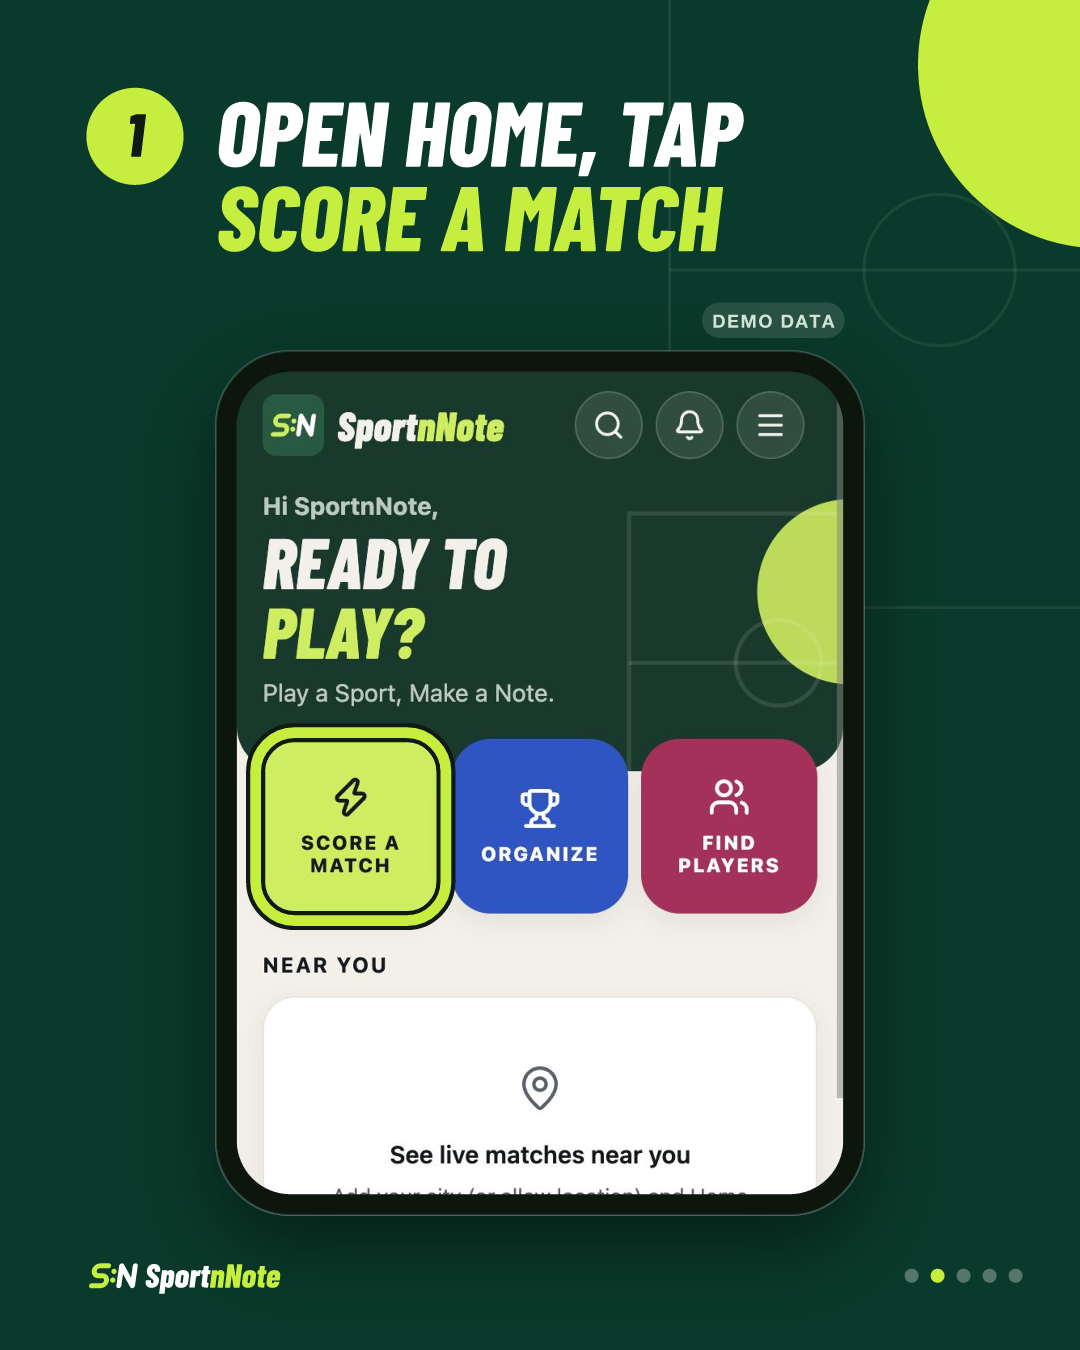
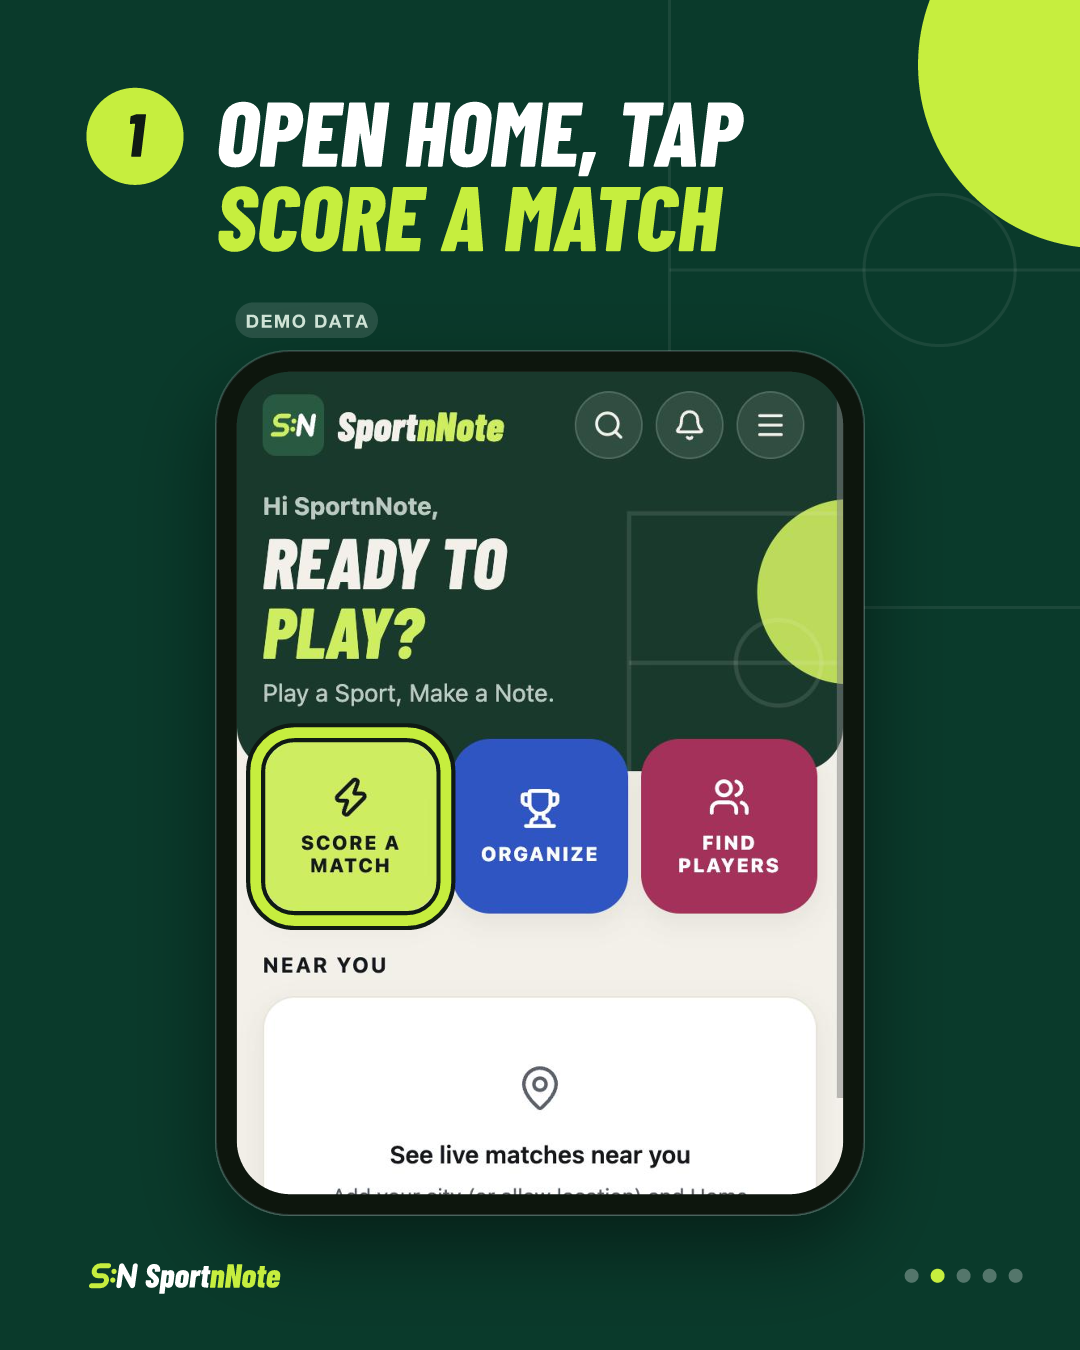
feat(marketing): post 3 image (kabaddi result + standings); demo tags top-left; two more app notes

Changed region(s): [[0.6417, 0.2178, 0.7944, 0.2489], [0.2139, 0.2178, 0.3667, 0.2489]]

diff --git a/docs/org/marketing/assets/screens/README.md b/docs/org/marketing/assets/screens/README.md
@@ -11,7 +11,11 @@ All from the dedicated marketing demo account with fictional adult names ("name 
 | pickleball-scoring-3-4.jpg | live pickleball doubles, serving badge | post 4 slide 4 |
 | badminton-doubles-4-2.jpg | live badminton doubles 4–2 | post 2 |
 
-Still to make: kabaddi result + standings (post 3, needs a demo tournament), squad session (post 6, needs a demo team).
+| kabaddi-fulltime-scorer.jpg | scorer's full-time screen, Demo Golds 5–3 Demo Panthers | spare |
+| kabaddi-result-5-3.jpg | viewer's result page | post 3 |
+| kabaddi-standings.jpg | tournament standings + records | post 3 |
+
+Still to make: squad session (post 6, needs a demo team).
 
 ## App issues noticed while recording (for Design / Engineering)
 - Pair names swap order between set-up and scoring ("Meera / Arjun" → "Arjun / Meera", "Kabir / Dev" → "Dev / Kabir").
@@ -23,3 +27,5 @@ Still to make: kabaddi result + standings (post 3, needs a demo tournament), squ
 - Slots are listed out of order (Team 3, Team 1, Team 2).
 
 Demo data left on the demo account: tournament "Demo Kabaddi League" (3 slot fixtures; Demo Golds and Demo Panthers added as extra participants), friendlies Demo Reds v Demo Blues (football), Asha Rao / Priya v Meera / Arjun (pickleball), Kabir / Dev v Rahul / Veer (badminton).
+- **Result held ~60 s after full time:** the result is written when the scorer's countdown ends, or the next time their app opens. If the scorer leaves the screen, viewers keep seeing LIVE (with "Full Time" under it) until then. Seen on the demo kabaddi game: still live in the database 60+ s later, completed only after the app was reopened.
+- Long team names are cut on the scorer's full-time card ("Demo Go…", "Demo Pant…") although there's room.

diff --git a/docs/org/marketing/queue.md b/docs/org/marketing/queue.md
@@ -20,6 +20,6 @@ Built by `node scripts/build-social-posts.mjs` (founder: the Canva AI designs ha
 |---|---|---|
 | 2 LinkedIn | `2026-11-11-linkedin-scoreboard.png` (1200×1200) | ready for the founder's check |
 | 4 Instagram carousel | `2026-11-12-instagram-carousel-1.png` … `-5.png` (1080×1350) | ready for the founder's check |
-| 3 X + Threads | — | needs the kabaddi result + standings screenshots |
+| 3 X + Threads | `2026-11-11-x-threads-table.png` (1600×900) | ready for the founder's check |
 | 6 Instagram + Facebook | — | needs the squad session screenshot |
 | 1, 5 videos | — | founder records (recording-checklists.md); demo games are live on the demo account |
